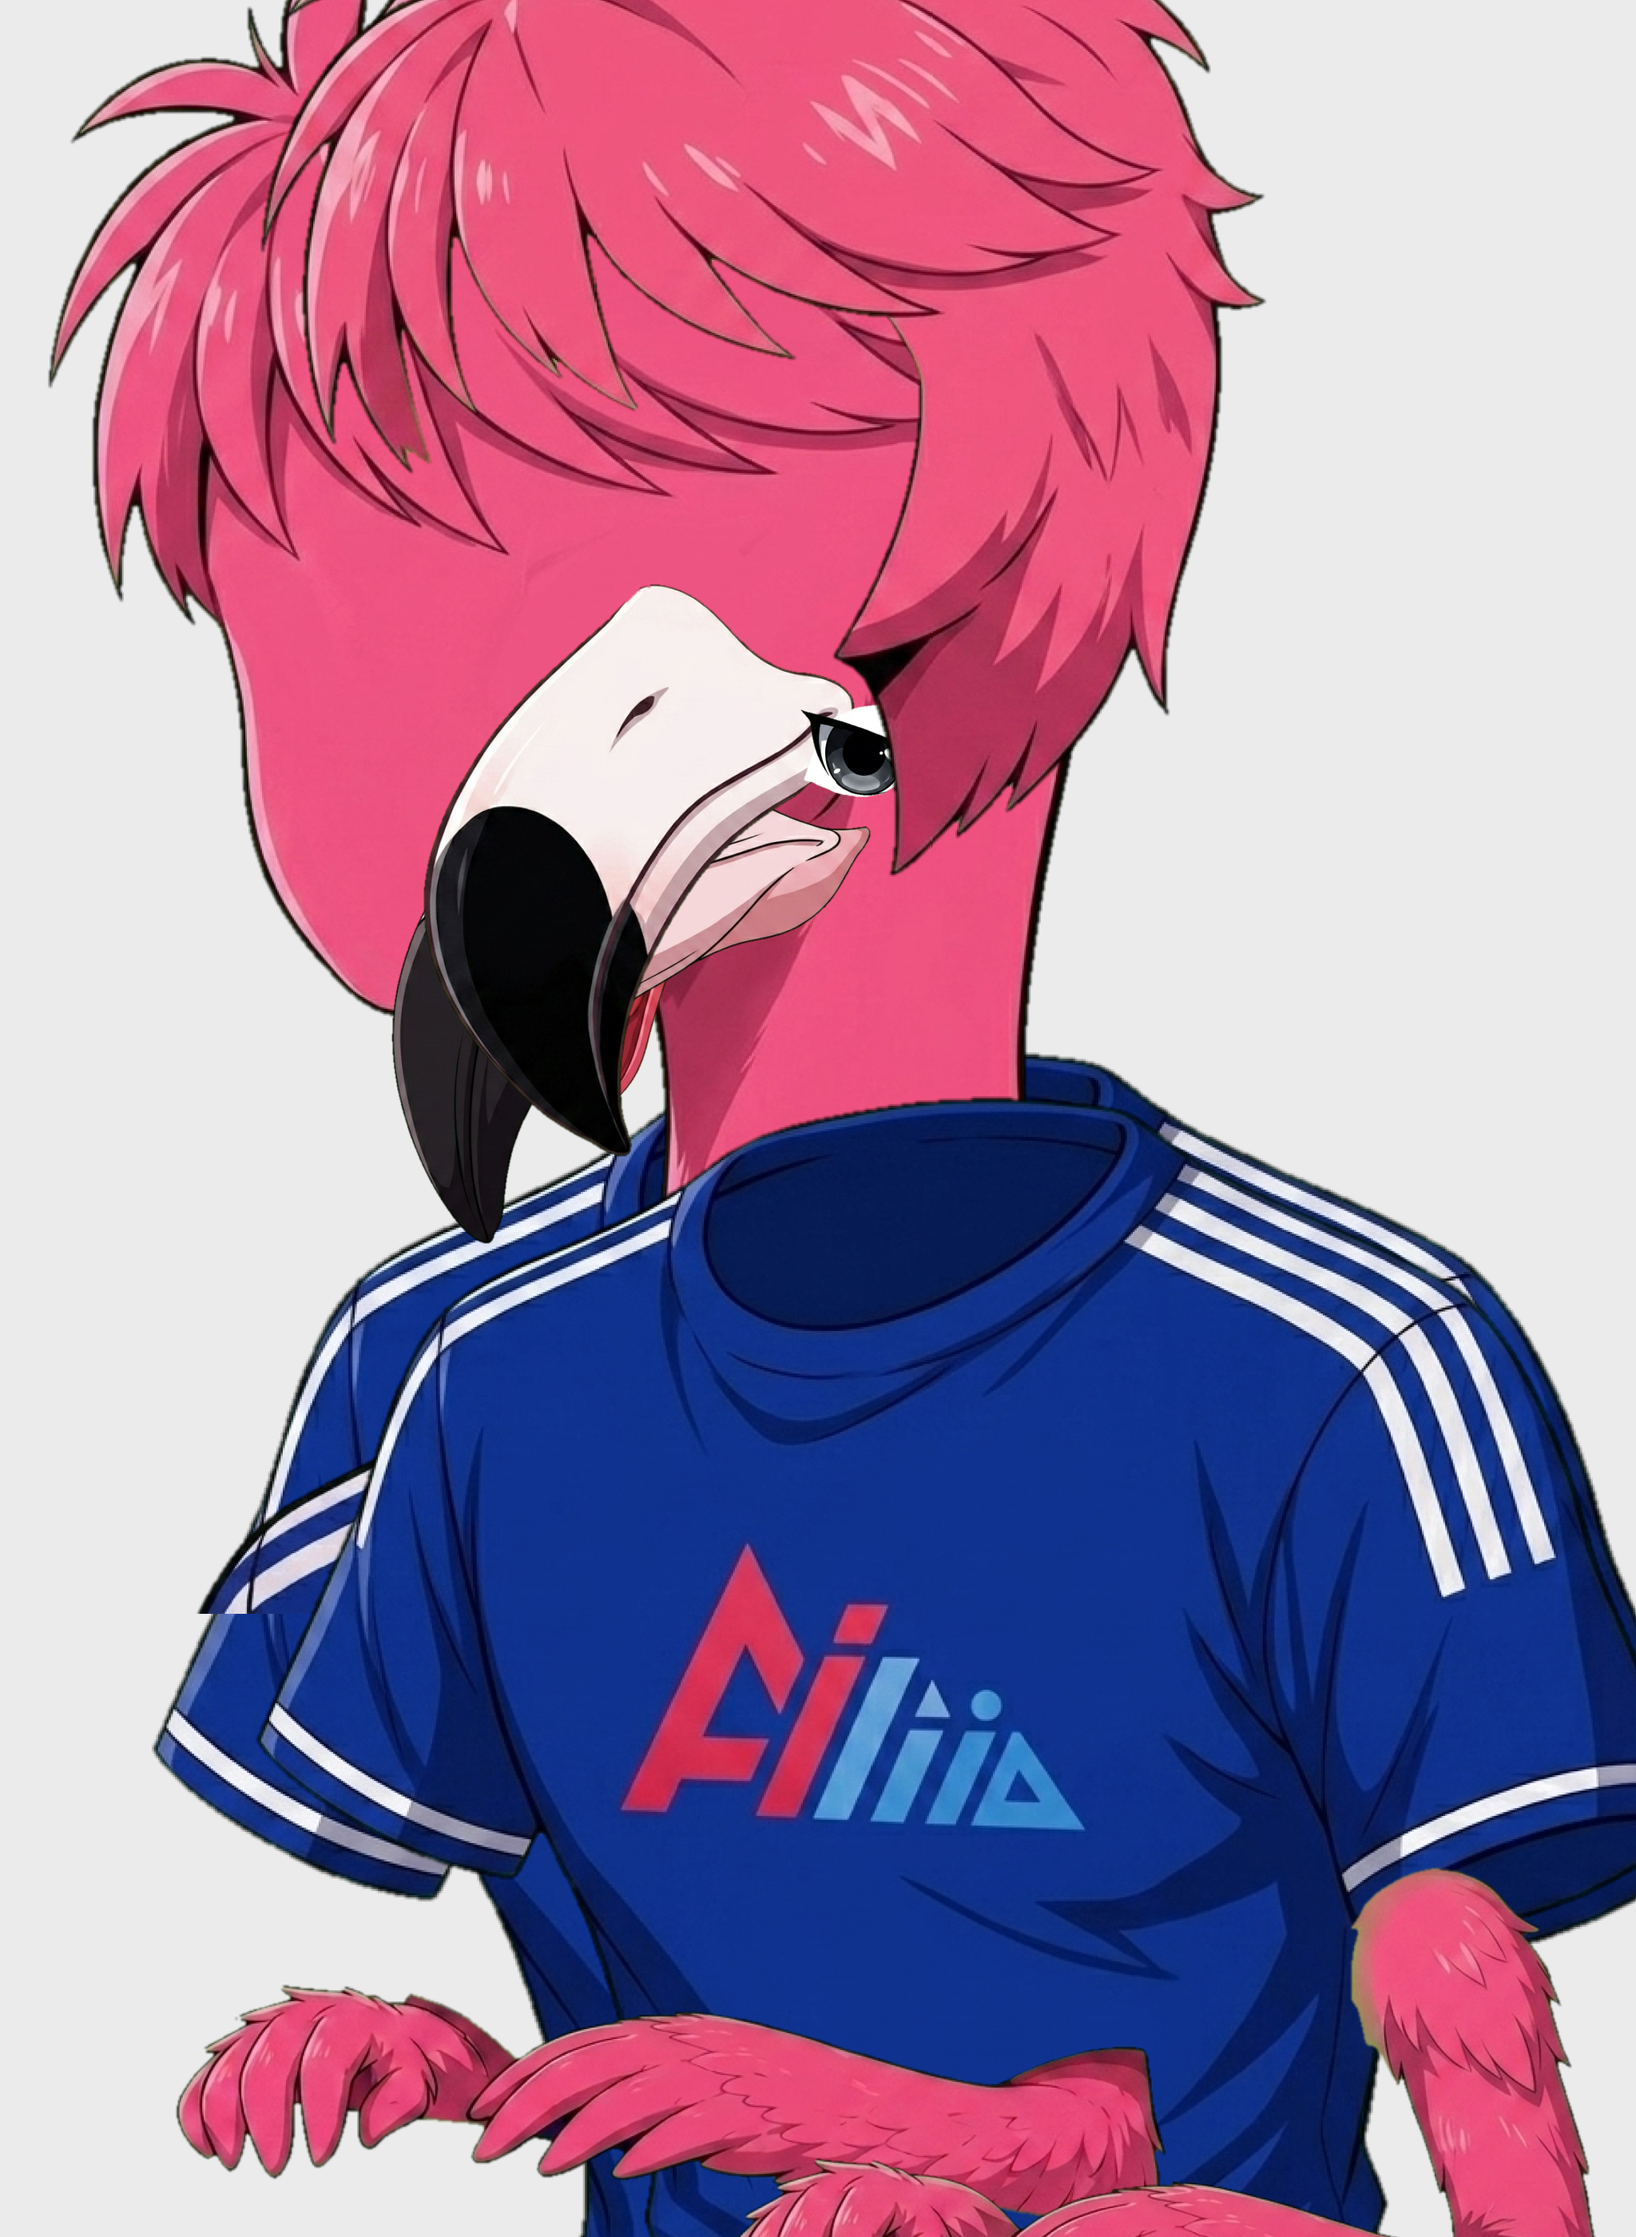
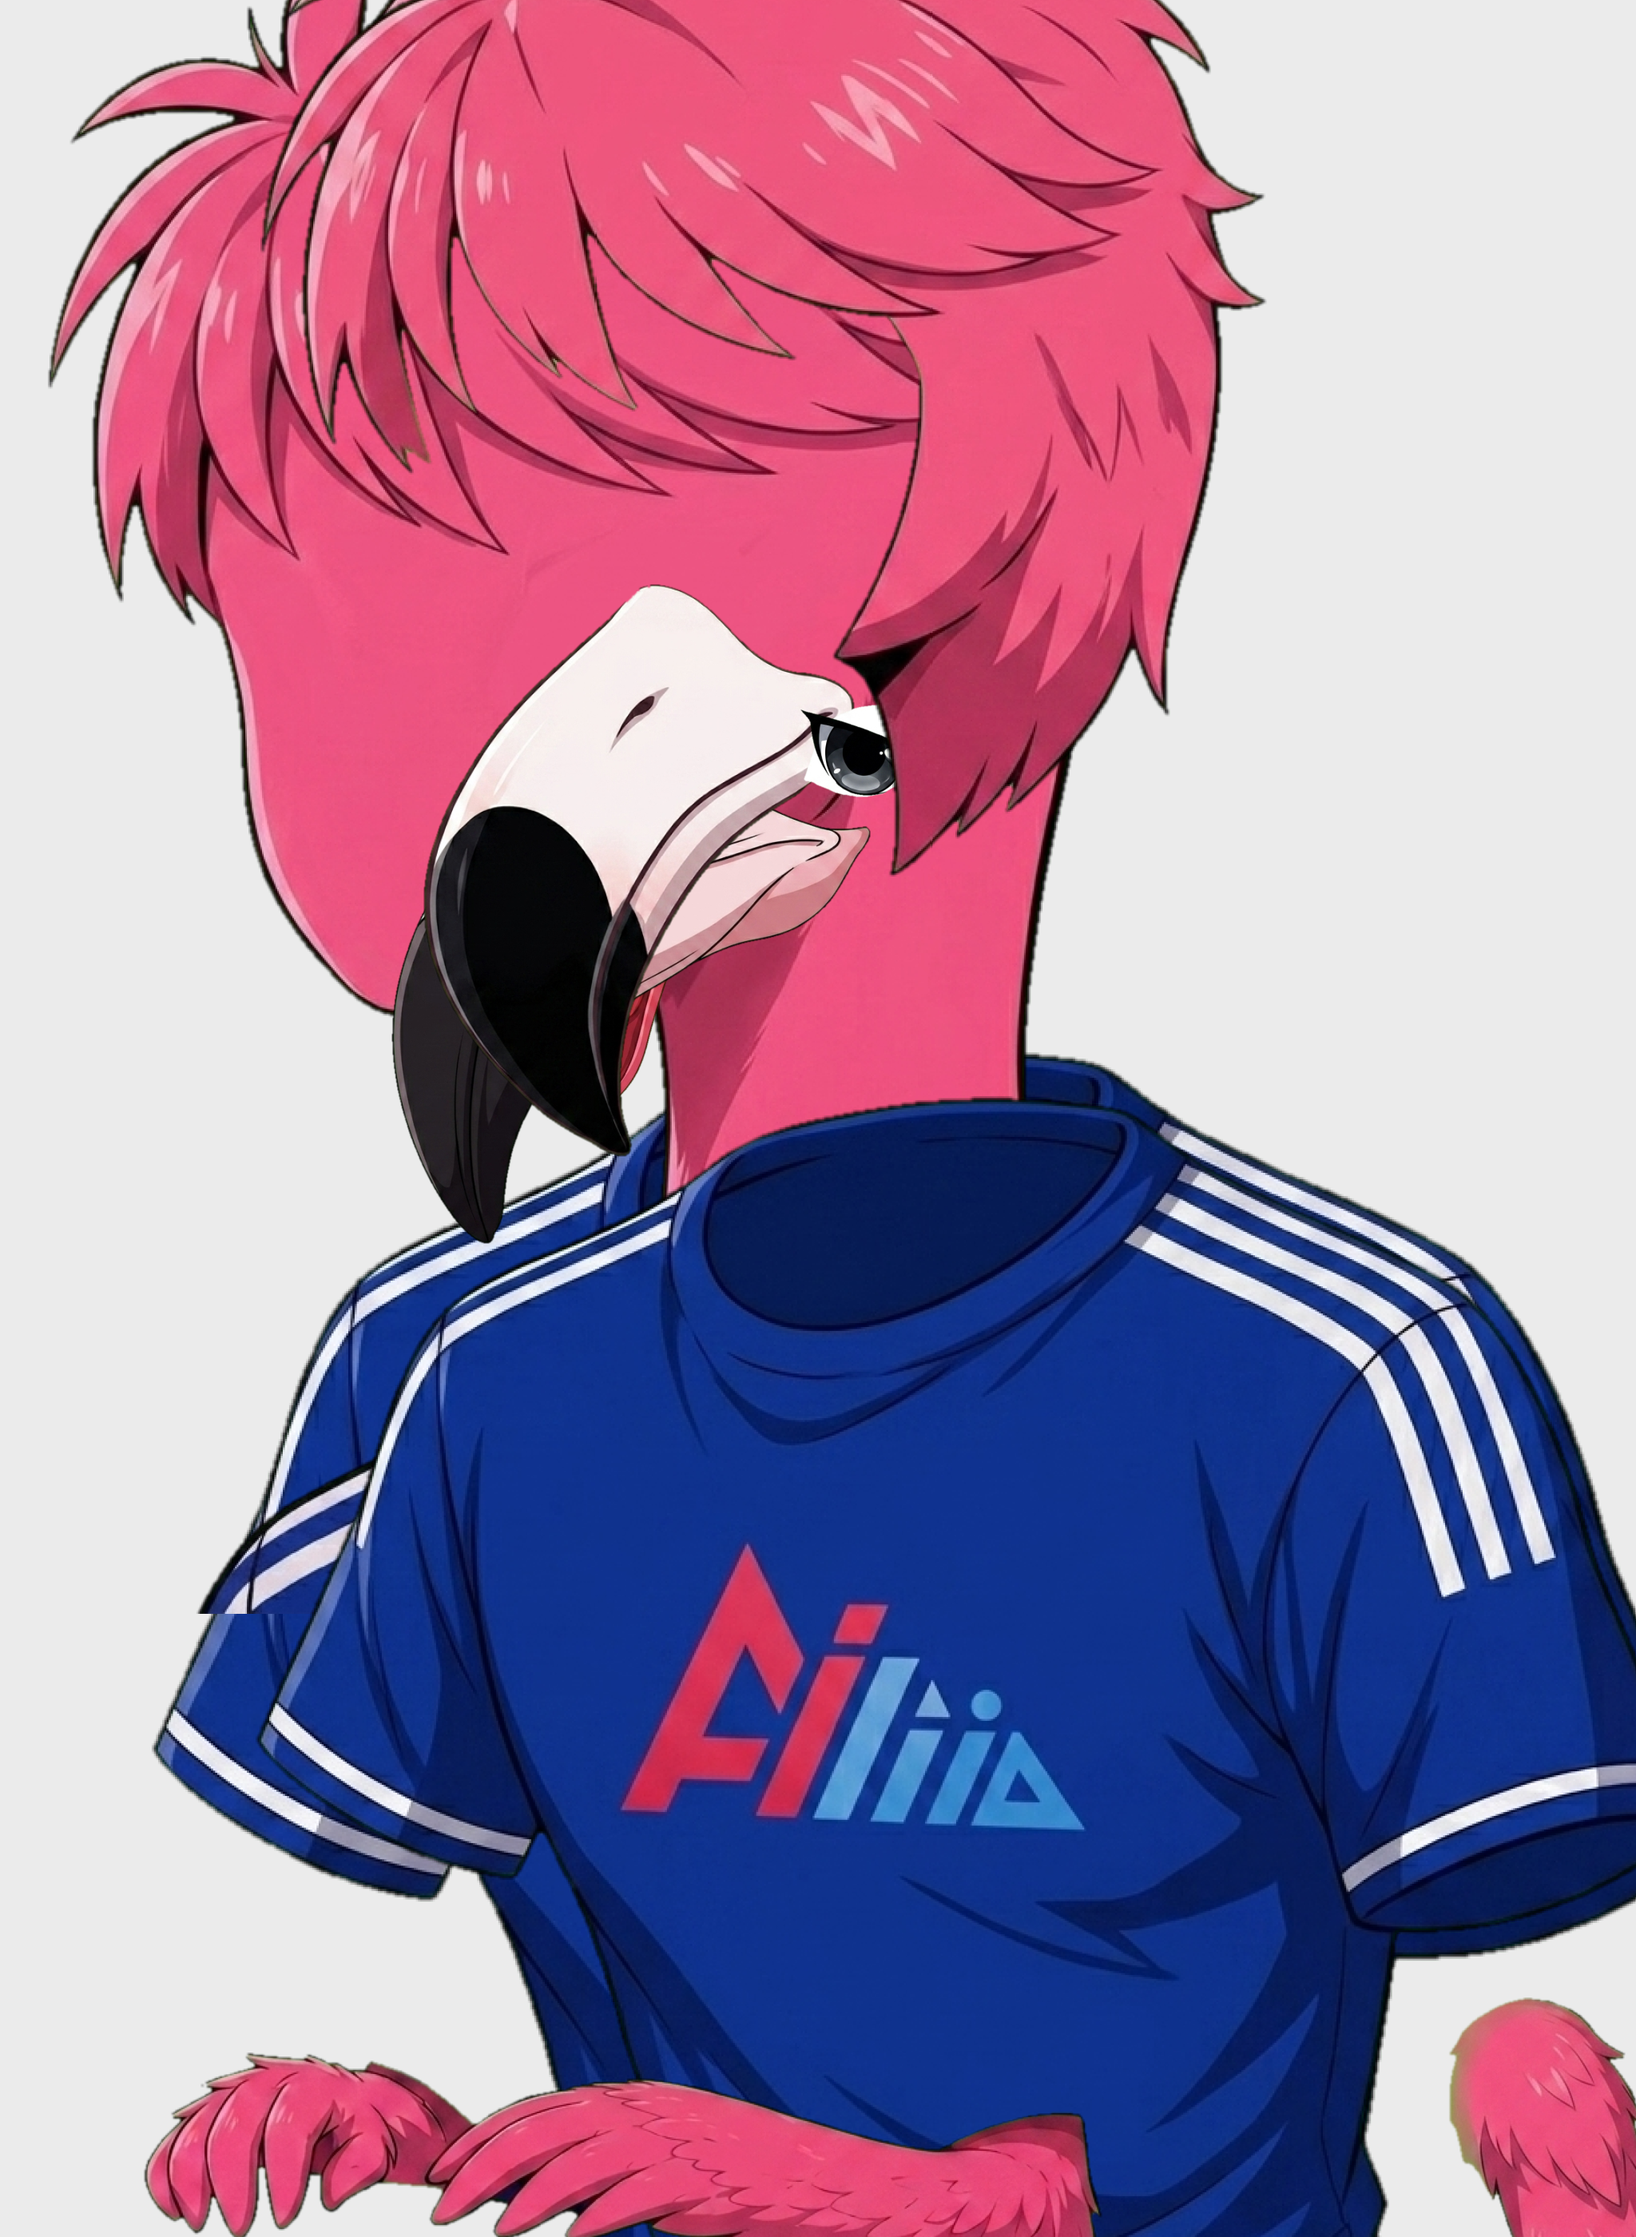
PSD 가로/세로 스왑 버그 수정 + 팔 배치 정리
pytoshop size 인자는 (width, height)인데 (height, width)로 넣어 2800x2048 가로
캔버스가 생성됐고 Cubism에서 레이어가 캔버스 밖으로 나가 빈 화면으로 보였음.

Changed region(s): [[0.0938, 0.87, 0.8438, 1.0], [0.8125, 0.8389, 1.0, 1.0]]

diff --git a/live2d/assemble_psd.py b/live2d/assemble_psd.py
@@ -36,8 +36,8 @@ PLACEMENT = [
     ("eyelid",       (540, 471, 88, True)),
     ("hair_front",   (478, 185, 630, False)),
     ("body_base",    (610, 1080, 900, False)),
-    ("left_arm",     (420, 1320, 620, False)),
-    ("right_arm",    (730, 1330, 560, False)),
+    ("left_arm",     (390, 1360, 600, False)),
+    ("right_arm",    (800, 1400, 520, False)),
 ]
 
 PREVIEW_SKIP = {"eyelid"}  # closed-eye layer would cover the open eye in the flat preview
@@ -131,7 +131,7 @@ def build():
         ))
     psd = nested_layers.nested_layers_to_psd(
         psd_layers, color_mode=enums.ColorMode.rgb,
-        size=(CANVAS_H, CANVAS_W),
+        size=(CANVAS_W, CANVAS_H),  # pytoshop expects (width, height)
         compression=enums.Compression.raw)
     with open(OUT_PSD, "wb") as f:
         psd.write(f)
